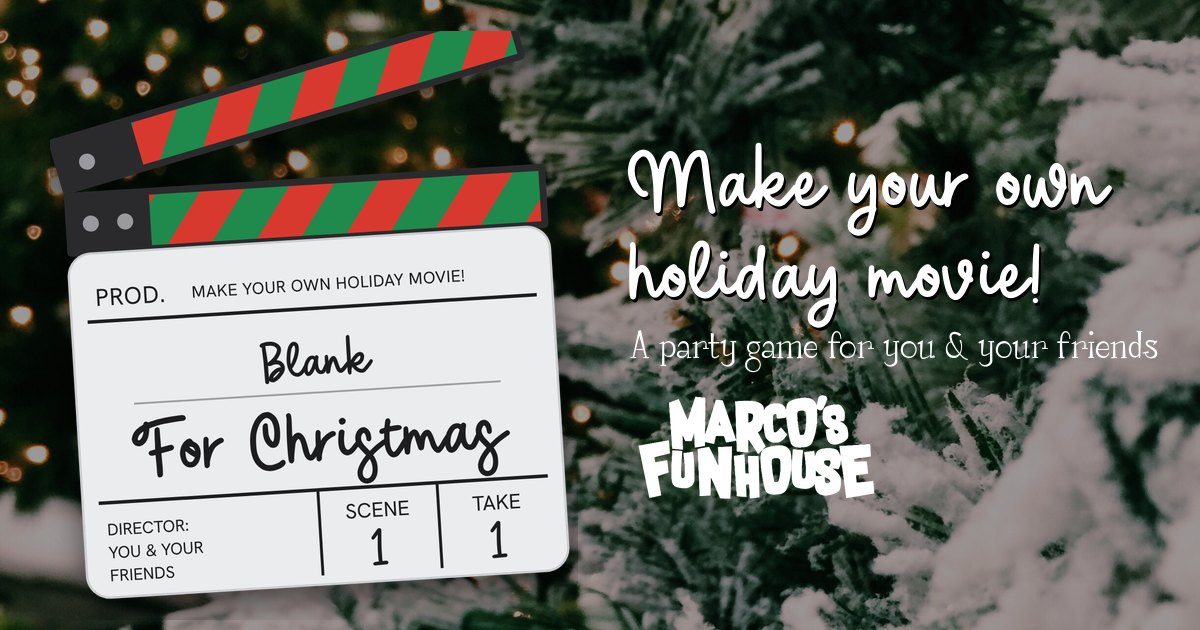
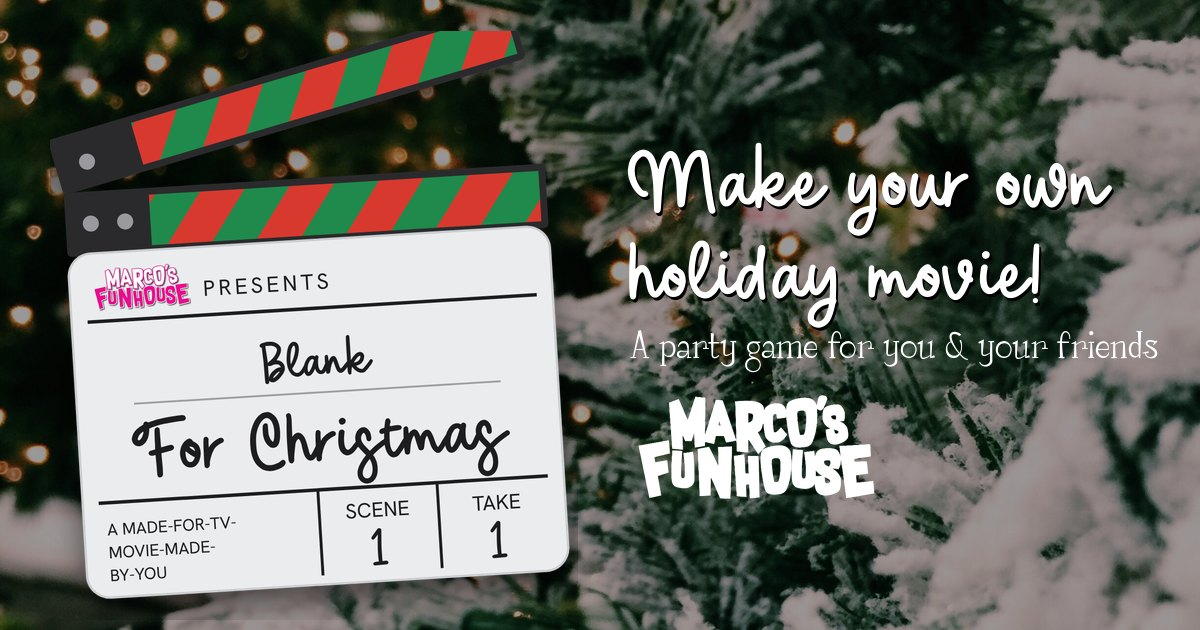
Clapperboard: Marco's Funhouse presents / A made-for-TV movie made by you
Claude-Session: https://claude.ai/code/session_01WcKysh1K7ZYbByMHhZ1xmE

Changed region(s): [[0.0617, 0.4222, 0.4008, 0.5127], [0.0925, 0.8143, 0.185, 0.9349]]

diff --git a/public/index.html b/public/index.html
@@ -783,21 +783,21 @@ function slrow(left,scene,take){return `<div class="slrow"><div>${left}</div><di
 function vHome(){
   const saved=ls('hmh_session');const kb=S.ui.kitBusy&&S.ui.kitFrom==='home';
   return `<div class="home"><h1 class="sr">Blank for Christmas: make your own holiday movie</h1>
-  <svg class="slate" viewBox="0 0 460 500" role="img" aria-label="Clapperboard: Make your own holiday movie. Blank for Christmas. Director: you and your friends. Scene 1, take 1."><defs><pattern id="stp" width="64" height="64" patternUnits="userSpaceOnUse" patternTransform="rotate(35)"><rect width="32" height="64" fill="#d8392f"/><rect x="32" width="32" height="64" fill="#1f8a4c"/></pattern></defs>
+  <svg class="slate" viewBox="0 0 460 500" role="img" aria-label="Clapperboard: Marco's Funhouse presents Blank for Christmas, a made-for-TV movie made by you. Scene 1, take 1."><defs><pattern id="stp" width="64" height="64" patternUnits="userSpaceOnUse" patternTransform="rotate(35)"><rect width="32" height="64" fill="#d8392f"/><rect x="32" width="32" height="64" fill="#1f8a4c"/></pattern></defs>
 <g transform="rotate(-3.5 230 300)">
  <g class="arm"><rect x="22" y="76" width="420" height="50" rx="4" fill="#2a2a2c"/><rect x="96" y="82" width="340" height="38" fill="url(#stp)"/></g>
  <rect class="clapbar" x="22" y="128" width="420" height="56" rx="4" fill="#2a2a2c"/><rect x="96" y="134" width="340" height="44" fill="url(#stp)"/>
  <circle cx="44" cy="102" r="7" fill="#9a9a9e"/><circle cx="44" cy="156" r="7" fill="#9a9a9e"/><circle cx="74" cy="156" r="7" fill="#9a9a9e"/>
  <rect x="22" y="182" width="420" height="300" rx="20" fill="#ebeced" stroke="#c9cbce" stroke-width="2"/>
- <text class="g" x="44" y="228" font-size="21" letter-spacing=".5">PROD.</text>
- <text class="g" x="128" y="226" font-size="14.5" letter-spacing=".3">MAKE YOUR OWN HOLIDAY MOVIE!</text>
+ <image href="${FUNHOUSE_LOGO}" x="40" y="194" width="88" height="40" preserveAspectRatio="xMinYMid meet"/>
+ <text class="g" x="138" y="225" font-size="19" letter-spacing="3">PRESENTS</text>
  <rect x="36" y="240" width="392" height="3" fill="#1d1d1f"/>
  <text class="c" id="blankWord" x="232" y="304" font-size="40" text-anchor="middle">Blank</text>
  <rect x="72" y="314" width="320" height="1.6" fill="#9b9da1"/>
  <text class="c" x="232" y="380" font-size="58" text-anchor="middle">For Christmas</text>
  <rect x="36" y="398" width="392" height="3" fill="#1d1d1f"/>
  <rect x="226" y="400" width="2.5" height="74" fill="#1d1d1f"/><rect x="330" y="400" width="2.5" height="74" fill="#1d1d1f"/>
- <text class="g" x="42" y="428" font-size="14.5">DIRECTOR:</text><text class="g" x="42" y="448" font-size="14.5">YOU &amp; YOUR</text><text class="g" x="42" y="468" font-size="14.5">FRIENDS</text>
+ <text class="g" x="42" y="428" font-size="14.5">A MADE-FOR-TV-</text><text class="g" x="42" y="448" font-size="14.5">MOVIE-MADE-</text><text class="g" x="42" y="468" font-size="14.5">BY-YOU</text>
  <text class="g" x="278" y="426" font-size="18" text-anchor="middle">SCENE</text><text class="c" x="278" y="468" font-size="40" text-anchor="middle">1</text>
  <text class="g" x="382" y="426" font-size="18" text-anchor="middle">TAKE</text><text class="c" x="382" y="468" font-size="40" text-anchor="middle">1</text>
 </g></svg>
